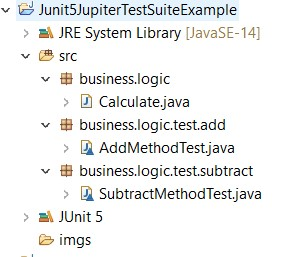
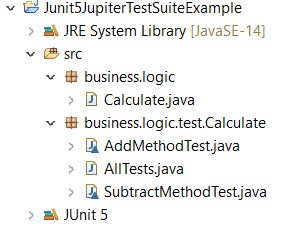
refactored tests

diff --git a/src/business/logic/test/Calculate/SubtractMethodTest.java b/src/business/logic/test/Calculate/SubtractMethodTest.java
@@ -1,7 +1,7 @@
 /**
  * 
  */
-package business.logic.test.subtract;
+package business.logic.test.Calculate;
 
 import static org.junit.jupiter.api.Assertions.*;
 

diff --git a/src/business/logic/test/Calculate/AddMethodTest.java b/src/business/logic/test/Calculate/AddMethodTest.java
@@ -1,7 +1,7 @@
 /**
  * 
  */
-package business.logic.test.add;
+package business.logic.test.Calculate;
 
 import static org.junit.jupiter.api.Assertions.*;
 

diff --git a/src/business/logic/test/Calculate/AllTests.java b/src/business/logic/test/Calculate/AllTests.java
@@ -1,0 +1,6 @@
+package business.logic.test.Calculate;
+
+
+public class AllTests {
+
+}
